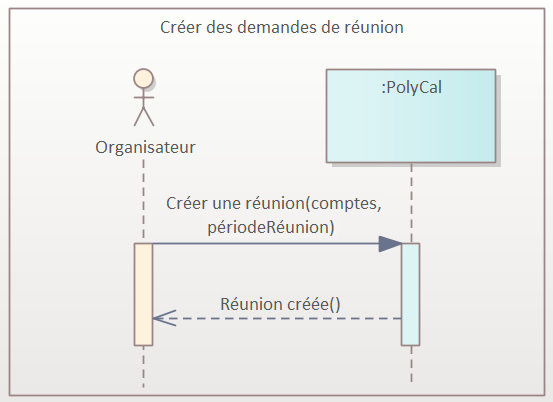
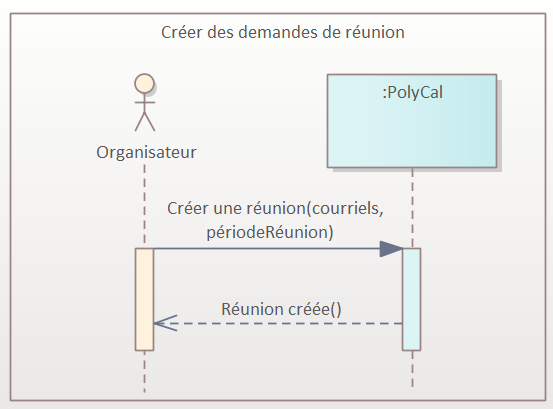
changed last diagrams and updated some paths

Changed region(s): [[0.0, 0.0, 1.0, 1.0], [0.2152, 0.1493, 0.3074, 0.3284]]

diff --git a/diagrammes-d-interaction.md b/diagrammes-d-interaction.md
@@ -13,7 +13,7 @@ has_toc: false
 
 Un diagramme d'interaction fournit une représentation visuelle claire des **messages échangés** entre les différents acteurs, objets ou composants d'un système pendant un **scénario spécifique**.
 
-Deux types principaux de diagrammes d'interactions sont couramment utilisés : les diagrammes de séquence et les diagrammes de communication.
+Deux types principaux de diagrammes d'interactions sont couramment utilisés : les **diagrammes de séquence** et les **diagrammes de communication**.
 
 Le diagramme de séquence met en évidence **l'ordre chronologique** des messages échangés entre les différents objets d'un système.
 
@@ -24,7 +24,7 @@ La section suivante comporte une comparaison des 2 types de diagramme, mais nous
 ## Représentation
 
 Un diagramme de séquence doit montrer des messages échangés par des participants lors de la réalisation d'un scénario.
-L'exemple suivant représente les **messages échangés**, lors d'une **requête HTTP** (scénario), entre le **participant Navigateur** et le **participant Serveur**.
+L'exemple suivant représente les **messages échangés**, lors d'une **appel** (scénario), entre le **participant Navigateur** et le **participant Serveur**.
 
 ![](/out/plant_uml/custom/interactionRepresentationExample.svg)
 
@@ -88,13 +88,10 @@ Le SSD est une utilisation particulière du diagramme de séquence qui réutilis
 
 Le SSD présente, pour une instance d’un cas d’utilisation:
 
-– Les événements générés par les acteurs;
-
-– L’ordre de ces événements;
-
-– Les autres événements inter-système;
-
-– Les opérations du système déclenchées par ces événements.
+  - Les événements générés par les acteurs;
+  - L’ordre de ces événements;
+  - Les autres événements inter-système;
+  - Les opérations du système déclenchées par ces événements.
 
 Voici un exemple d'un **SSD** basé sur le cas d'étude [PolyCal](../polycal/).
 ![Diagramme SSD](/assets/images/SSD.png)
@@ -102,5 +99,18 @@ Voici un exemple d'un **SSD** basé sur le cas d'étude [PolyCal](../polycal/).
 
 ## Exemple
 
-Voici un exemple d'un **diagramme d'interaction** basé sur le cas d'étude [PolyCal](../polycal/).
+Voici un exemple d'un **diagramme de séquence** basé sur le cas d'étude [PolyCal](../polycal/).
 ![Diagramme d'interaction](/assets/images/interaction.png)
+
+La fonction est contenue dans la classe qui reçoit l'appel :
+
+     class PolyCal {
+     private:
+      std::vector<Compte> comptes;
+      std::vector<Reunion> reunions;
+     public:
+       Compte* trouverCompte(std::string courriels);
+       Reunion* creerReunion( std::vector<std::string> courriels,
+                           std::string periodeReunion);
+     ...
+};

diff --git a/diagrammes-de-contexte.md b/diagrammes-de-contexte.md
@@ -33,10 +33,6 @@ On considère **importants** les cas d’utilisation qui:
 
 Dans un **diagramme de contexte**, chaque cas est représenté par un oval contenant son nom et son numéro. **Le nom commence par un verbe.**
 
-Voici un exemple d'un **diagramme de contexte** basé sur le cas d'étude [PolyCal](../polycal/).
-
-![Diagramme de contexte](/assets/images/diagramme_contexte.png)
-
 ## Frontières du système
 
 Les **cas d'utilisation** capturent par définition les **fonctionnalités d'un sujet spécifique**. Toute fonctionnalité qui n'est pas implémentée par ce sujet est considérée comme étant en dehors des limites du système et doit être **représentée sous forme d'acteur**. Ceci permet de déterminer clairement la portée et les responsabilités associées.  
@@ -50,3 +46,9 @@ Par exemple, dans un contexte simple, un acteur peut être représenté comme su
 ![](/out/plant_uml/acteurReprésentation/acteurReprésentation.svg)
 
 Il peut y avoir plusieurs acteurs pour un même cas d'utilisation. C'est le cas du CU 3 du diagramme de contexte ci-dessus.
+
+## Exemple
+
+Voici un exemple d'un **diagramme de contexte** basé sur le cas d'étude [PolyCal](../polycal/).
+
+![Diagramme de contexte](/assets/images/diagramme_contexte.png)

diff --git a/Remerciements.md b/Remerciements.md
@@ -1,0 +1,14 @@
+---
+layout: page
+title: Remerciements
+permalink: /remerciements/
+nav_order: 12
+has_children: false
+has_toc: false
+---
+
+[↑](./#top){: .btn .btn-outline .back-to-top }
+
+# Remerciements
+
+Ce projet a été financé dans le cadre du concours 2023 du Fonds d'actions pédagogiques stratégiques [FAPS](https://www.polymtl.ca/appui-pedagogique/fonds-dinnovation-pedagogique/fonds-dactions-pedagogiques-strategiques-faps-0){:target="\_blank"} de Polytechique Montréal.  Il a été réalisé par les étudiants au baccalauréat Justin Lachapelle, Achille Saint-Hillier et Michel Lominy, sous la supervision du professeur François Guibault et des maîtres d'enseignement Éric Germain et Nikolay Radoev.  Nous aimerions également remercier Amélie Simard, étudiante au baccalauréat, pour ses commentaires et suggestions d'améliorations.

diff --git a/diagrammes-de-cas-dutilisation.md b/diagrammes-de-cas-dutilisation.md
@@ -54,7 +54,7 @@ Il peut y avoir plusieurs acteurs pour un même cas d'utilisation. Par exemple, 
 | Inclusion de cas d'utilisation | ![](/out/plant_uml/useCaseInclusionExample/useCaseInclusionExample.svg) | Indique que le _casUtilisation1_ n'est pas complet, il a **besoin** de la fonctionnalité de _CasUtilisation2_ pour fonctionner. Cette relation permet de pouvoir réutiliser certains cas d'utilisation. |
 | Extension de cas d'utilisation | ![](/out/plant_uml/useCaseExtensionExample/useCaseExtensionExample.svg) | Indique que le casUtilisation1 va ajouter des fonctionnalités (étendre) au casUtilisation2, lequel doit pouvoir fonctionner seul. |
 
-## Exemple
+## Exemples
 
 Voici des exemples d'un **diagramme de cas d'utilisation** basé sur le cas d'étude [PolyCal](../polycal/).  
 

diff --git a/polyauto.md b/polyauto.md
@@ -2,9 +2,7 @@
 layout: page
 title: PolyAuto (cas d'étude)
 permalink: /polyauto/
-nav_order: 12
-has_children: false
-has_toc: false
+nav_exclude: true
 ---
 
 [↑](./#top){: .btn .btn-outline .back-to-top }
@@ -57,5 +55,8 @@ Tout au long de ce guide vous sont fournis des exemples basés sur le cas **Poly
 ![](/out/plant_uml/exempleDiagPaquet/exempleDiagPaquet.svg)
 
 - [Diagramme de déploiement](../diagrammes-de-deploiement/#exemple) (Système complet)
+
+![](/out/plant_uml/custom/deploymentExemple.svg)
+
 - [Diagramme d'états](../diagrammes-etats/#exemple) (Disponibilité des véhicules)
 - [Diagramme d'activités](../diagrammes-d-activites/#exemple) (Validation d'une réservation)

diff --git a/diagrammes-de-deploiement.md b/diagrammes-de-deploiement.md
@@ -43,7 +43,7 @@ Voici un exemple illustrant un artéfact "Application Web" déployé dans le noe
 ![](/out/plant_uml/deploymentRepresentation/deploymentRepresentation.svg)
 
 
-## Relation
+## Relations
 
 |---|---|---|
 | Manifestation | ![](/out/plant_uml/manifestationRelationshipExample/manifestationRelationshipExample.svg) | Indique que l'artéfact est une manifestation (ou une implémentation) logicielle de la composante. |

diff --git a/diagrammes-de-classes.md b/diagrammes-de-classes.md
@@ -118,10 +118,9 @@ Voici un exemple d'un **diagramme de classes** basé sur le cas d'étude [PolyCa
 
 La classe PolyCal est une aggrégation des deux autres :
 
-class PolyCal {
-private:
-    std::vector<Compte> comptes;
-    std::vector<Reunion> reunions;
-
-   ...
-};
+    class PolyCal {
+    private:
+      std::vector<Compte> comptes;
+      std::vector<Reunion> reunions;
+      ...
+    };

diff --git a/sections_diagramme_contexte/cas-principaux.md b/sections_diagramme_contexte/cas-principaux.md
@@ -1,5 +1,5 @@
 ---
-title: Comment savoir si un cas d'utilisation fait partie des cas principaux ? 
+title: Comment savoir si un cas d’utilisation fait partie des cas principaux ?
 permalink: /diagrammes-de-contexte/#cas-principaux
 nav_order: 2
 parent: Diagrammes de contexte

diff --git a/sections_diagramme_cas_utilisation/cas-d-utilisation.md b/sections_diagramme_cas_utilisation/cas-d-utilisation.md
@@ -1,6 +1,6 @@
 ---
 title: Cas d'utilisation
-permalink: /diagrammes-de-cas-dutilisation/#cas-d-utilisiation
-nav_order: 1
+permalink: /diagrammes-de-cas-dutilisation/#cas-d-utilisation
+nav_order: 2
 parent: Diagrammes de cas d'utilisation
 ---

diff --git a/sections_diagramme_interaction/ssd.md b/sections_diagramme_interaction/ssd.md
@@ -1,0 +1,6 @@
+---
+title: Le diagramme de séquence du système (SSD)
+permalink: /diagrammes-d-interaction/#ssd
+nav_order: 8
+parent: Diagrammes d'interaction
+---

diff --git a/sections_diagramme_cas_utilisation/exemples.md b/sections_diagramme_cas_utilisation/exemples.md
@@ -1,0 +1,6 @@
+---
+title: Exemples
+permalink: /diagrammes-de-cas-dutilisation/#exemples
+nav_order: 4
+parent: Diagrammes de cas d'utilisation
+---

diff --git a/sections_diagramme_interaction/exemple.md b/sections_diagramme_interaction/exemple.md
@@ -1,6 +1,6 @@
 ---
 title: Exemple
 permalink: /diagrammes-d-interaction/#exemple
-nav_order: 8
+nav_order: 9
 parent: Diagrammes d'interaction
 ---
